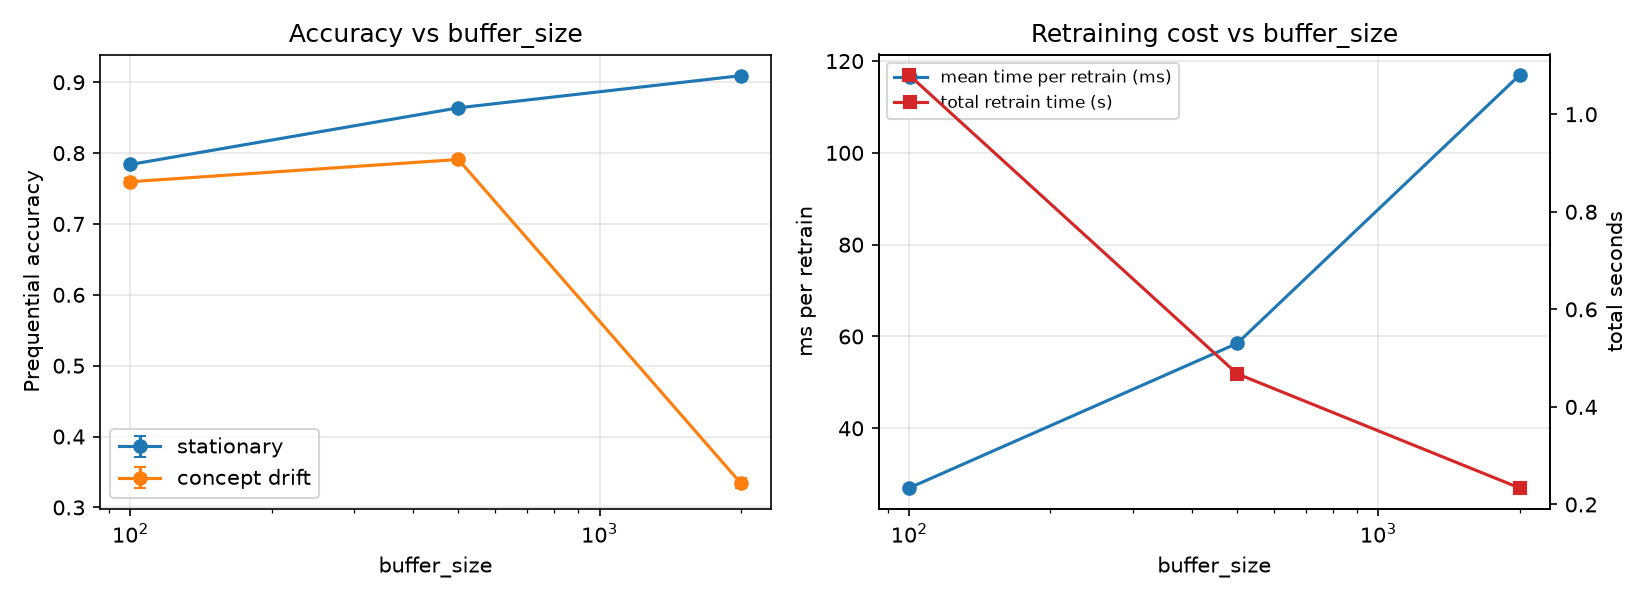
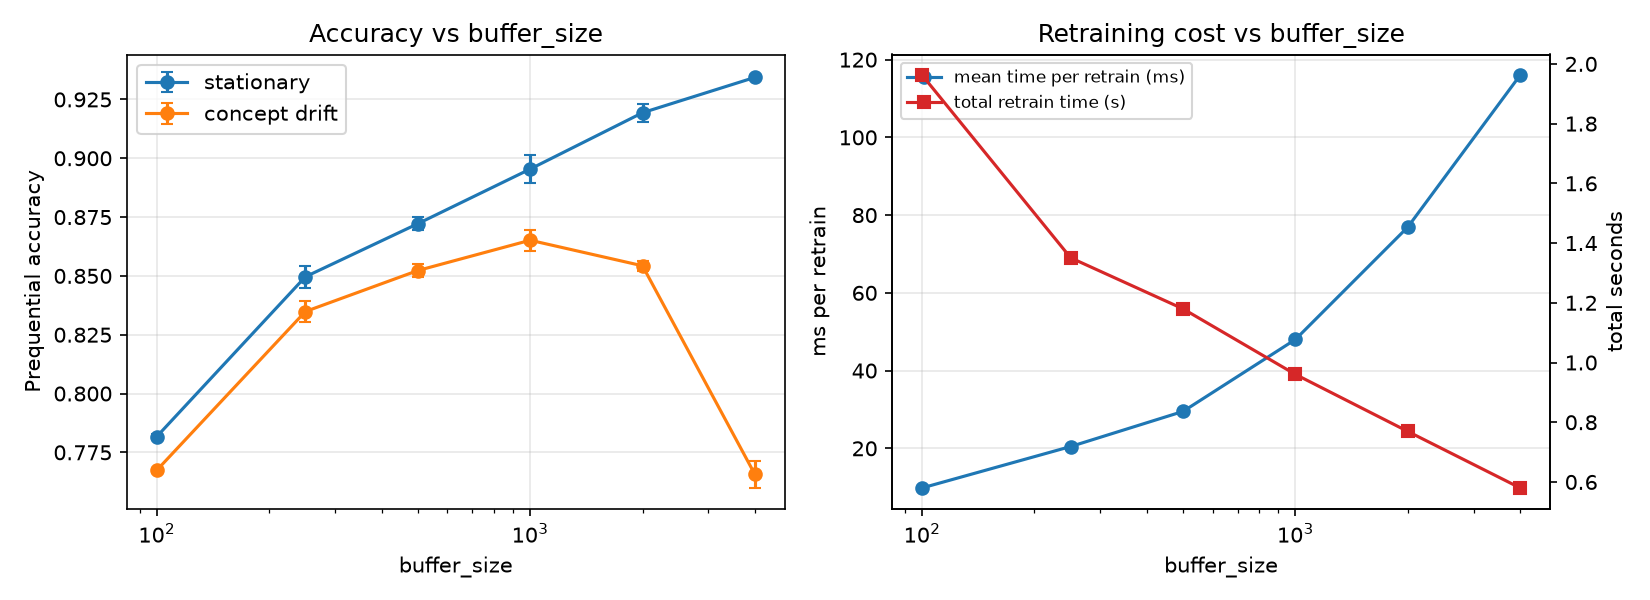
chore: update benchmark results with full run on my machine

diff --git a/benchmark/stream_results.md b/benchmark/stream_results.md
@@ -8,9 +8,9 @@
 - machine: AMD64
 - processor: Intel64 Family 6 Model 142 Stepping 9, GenuineIntel
 - cpu_count: 4
-- date: 2026-11-17 04:00 UTC
+- date: 2026-11-17 04:07 UTC
 - seed: fixed per benchmark
-- mode: quick
+- mode: full
 
 ## A. Loop-based vs vectorised
 
@@ -18,52 +18,63 @@
 
 | Size | Loop | Vectorised | Speed-up | Match |
 |---:|---:|---:|---:|:---:|
-| 100 | 39.86 ms | 634.2 us | 62.9x | yes |
-| 200 | 79.96 ms | 946.3 us | 84.5x | yes |
-| 400 | 169.82 ms | 1.19 ms | 143.2x | yes |
+| 200 | 64.86 ms | 876.7 us | 74.0x | yes |
+| 500 | 154.09 ms | 1.13 ms | 136.5x | yes |
+| 1,000 | 348.22 ms | 2.17 ms | 160.6x | yes |
+| 2,000 | 990.52 ms | 2.96 ms | 334.4x | yes |
 
 **Full tree fit (max_depth=6)**
 
 | Size | Loop | Vectorised | Speed-up | Match |
 |---:|---:|---:|---:|:---:|
-| 100 | 140.17 ms | 9.69 ms | 14.5x | yes |
-| 200 | 371.92 ms | 16.98 ms | 21.9x | yes |
+| 200 | 353.45 ms | 17.16 ms | 20.6x | yes |
+| 400 | 772.12 ms | 21.51 ms | 35.9x | yes |
+| 800 | 1.277 s | 28.30 ms | 45.1x | yes |
+| 1,600 | 2.955 s | 39.15 ms | 75.5x | yes |
 
 **Tree prediction (per-sample walk vs level-wise)**
 
 | Size | Loop | Vectorised | Speed-up | Match |
 |---:|---:|---:|---:|:---:|
-| 500 | 3.82 ms | 272.0 us | 14.1x | yes |
-| 2,000 | 17.73 ms | 578.9 us | 30.6x | yes |
+| 1,000 | 8.07 ms | 341.8 us | 23.6x | yes |
+| 10,000 | 96.05 ms | 1.99 ms | 48.3x | yes |
+| 50,000 | 437.91 ms | 16.55 ms | 26.5x | yes |
 
 **Streaming confusion-matrix update**
 
 | Size | Loop | Vectorised | Speed-up | Match |
 |---:|---:|---:|---:|:---:|
-| 1,000 | 550.2 us | 23.7 us | 23.2x | yes |
-| 10,000 | 5.63 ms | 187.4 us | 30.0x | yes |
+| 1,000 | 558.2 us | 24.5 us | 22.8x | yes |
+| 10,000 | 7.22 ms | 144.7 us | 49.9x | yes |
+| 100,000 | 48.75 ms | 3.22 ms | 15.2x | yes |
 
 ![loop vs vectorised](figures/loop_vs_vectorised.png)
 
 ## B. Effect of `buffer_size` (streaming, prequential evaluation)
 
-Setup: 4,000 samples, chunks of 100, `max_depth=6`, mean over seeds [0, 1]. Accuracy is cumulative test-then-train accuracy (chunks before the first retrain are not scored).
+Setup: 20,000 samples, chunks of 100, `max_depth=8`, mean over seeds [0, 1, 2]. Accuracy is cumulative test-then-train accuracy (chunks before the first retrain are not scored).
 
 **Stationary stream**
 
 | buffer_size | Accuracy (mean +/- sd) | Retrains | Mean retrain time | Total retrain time | Total fit time |
 |---:|---:|---:|---:|---:|---:|
-| 100 | 0.784 +/- 0.000 | 40 | 27.00 ms | 1.080 s | 1.083 s |
-| 500 | 0.864 +/- 0.000 | 8 | 58.49 ms | 0.468 s | 0.469 s |
-| 2,000 | 0.909 +/- 0.001 | 2 | 116.93 ms | 0.234 s | 0.235 s |
+| 100 | 0.782 +/- 0.001 | 200 | 9.81 ms | 1.962 s | 1.967 s |
+| 250 | 0.850 +/- 0.005 | 66 | 20.46 ms | 1.351 s | 1.354 s |
+| 500 | 0.872 +/- 0.003 | 40 | 29.49 ms | 1.180 s | 1.183 s |
+| 1,000 | 0.895 +/- 0.006 | 20 | 48.01 ms | 0.960 s | 0.963 s |
+| 2,000 | 0.919 +/- 0.004 | 10 | 76.92 ms | 0.769 s | 0.772 s |
+| 4,000 | 0.934 +/- 0.001 | 5 | 116.01 ms | 0.580 s | 0.583 s |
 
 **Stream with concept drift at 50%**
 
 | buffer_size | Accuracy (mean +/- sd) | Retrains | Mean retrain time | Total retrain time | Total fit time |
 |---:|---:|---:|---:|---:|---:|
-| 100 | 0.760 +/- 0.006 | 40 | 16.54 ms | 0.662 s | 0.663 s |
-| 500 | 0.791 +/- 0.006 | 8 | 26.36 ms | 0.211 s | 0.212 s |
-| 2,000 | 0.334 +/- 0.007 | 2 | 51.25 ms | 0.103 s | 0.103 s |
+| 100 | 0.767 +/- 0.001 | 200 | 9.23 ms | 1.845 s | 1.849 s |
+| 250 | 0.835 +/- 0.005 | 66 | 20.82 ms | 1.374 s | 1.377 s |
+| 500 | 0.852 +/- 0.003 | 40 | 29.05 ms | 1.162 s | 1.165 s |
+| 1,000 | 0.865 +/- 0.004 | 20 | 59.23 ms | 1.185 s | 1.188 s |
+| 2,000 | 0.854 +/- 0.002 | 10 | 102.57 ms | 1.026 s | 1.029 s |
+| 4,000 | 0.766 +/- 0.006 | 5 | 123.79 ms | 0.619 s | 0.622 s |
 
 ![buffer_size_tradeoff.png](figures/buffer_size_tradeoff.png)
 
